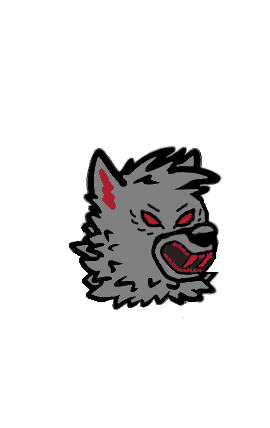
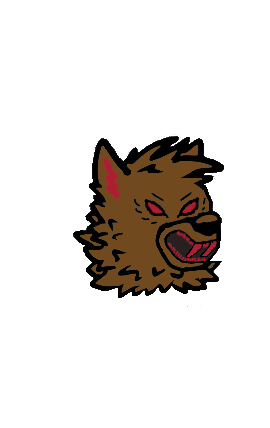
2.1.15-dev.8 part 1

Changed region(s): [[0.237, 0.3037, 0.8296, 0.729]]

diff --git a/source/Patches/Utils.cs b/source/Patches/Utils.cs
@@ -35,7 +35,6 @@ namespace BetterTownOfUs
             else
             {
                 targetOutfit = Lycan.WolfOutfit;
-                PlayerMaterial.SetColors(Color.grey, player.myRend());
                 player.nameText().color = Palette.ImpostorRed;
             }
             if (CamouflageUnCamouflage.IsCamoed) return;
@@ -287,6 +286,7 @@ namespace BetterTownOfUs
 
         public static void MurderPlayer(PlayerControl killer, PlayerControl target)
         {
+            if (killer.IsLover() && target.IsLover() && !killer.Is(RoleEnum.Arsonist)) return;
             var data = target.Data;
             if (data != null && !data.IsDead)
             {
@@ -353,8 +353,9 @@ namespace BetterTownOfUs
 
                 if (killer.Is(RoleEnum.Lycan) && Role.GetRole<Lycan>(killer).Wolfed)
                 {
-                    Role.GetRole<Lycan>(killer).Eaten = target.PlayerId;
-                    //target.Data.IsDead = true;
+                    var lycan = Role.GetRole<Lycan>(killer);
+                    lycan.Eaten = target.PlayerId;
+                    lycan.Eating = true;
                 }
                 if (!killer.Is(RoleEnum.Poisoner) && !killer.Is(RoleEnum.Arsonist))
                 {

diff --git a/source/Patches/Roles/Glitch.cs b/source/Patches/Roles/Glitch.cs
@@ -113,8 +113,7 @@ namespace BetterTownOfUs.Roles
         {
             if (!Player.Data.IsDead)
             {
-                Utils.SetClosestPlayer(ref ClosestPlayer, killButton:false);
-                Utils.SetClosestPlayer(ref KillTarget, killButton:true);
+                Utils.SetClosestPlayer(ref ClosestPlayer, killButton:true);
             }
 
             Player.nameText().color = Color;
@@ -464,7 +463,10 @@ namespace BetterTownOfUs.Roles
                 __gInstance.KillTarget = null;
 
                 if (__instance.KillButton.isActiveAndEnabled)
-                    __instance.KillButton.SetTarget(__gInstance.KillTarget);
+                {
+                    __instance.KillButton.SetTarget(__gInstance.ClosestPlayer);
+                    __gInstance.KillTarget = __gInstance.ClosestPlayer;
+                }
 
                 if (__gInstance.KillTarget != null)
                     __gInstance.KillTarget.myRend().material.SetColor("_OutlineColor", __gInstance.Color);

diff --git a/source/Patches/ImpostorRoles/LycanMod/Coroutine.cs b/source/Patches/ImpostorRoles/LycanMod/Coroutine.cs
@@ -10,6 +10,14 @@ namespace BetterTownOfUs.ImpostorRoles.LycanMod
         private static readonly int BodyColor = Shader.PropertyToID("_BodyColor");
         private static readonly int BackColor = Shader.PropertyToID("_BackColor");
 
+        public static bool Eating(PlayerControl player)
+        {
+            if (!player.Is(RoleEnum.Lycan)) return false;
+            var role = Role.GetRole<Lycan>(player);
+            if (!role.Eating) return false;
+            return true;
+        }
+
         public static IEnumerator CleanCoroutine(byte bodyId, Lycan role)
         {
             var deadBodies = Object.FindObjectsOfType<DeadBody>();
@@ -30,6 +38,7 @@ namespace BetterTownOfUs.ImpostorRoles.LycanMod
                         yield return null;
                     }
                     Object.Destroy(body.gameObject);
+                    role.Eating = false;
                 }
             }
         }

diff --git a/source/Patches/Roles/Lycan.cs b/source/Patches/Roles/Lycan.cs
@@ -11,6 +11,7 @@ namespace BetterTownOfUs.Roles
         public DateTime LastWolfed;
         public float TimeRemaining;
         public byte Eaten { get; set; } = byte.MaxValue;
+        public bool Eating { get; set; } = false;
         public Lycan(PlayerControl player) : base(player)
         {
             Name = "Lycan";
@@ -42,7 +43,7 @@ namespace BetterTownOfUs.Roles
 
         public static GameData.PlayerOutfit WolfOutfit = new GameData.PlayerOutfit()
         {
-          ColorId = 0,
+          ColorId = 9,
           HatId = "wolf",
           SkinId = "",
           VisorId = "",

diff --git a/source/Patches/CanMove.cs b/source/Patches/CanMove.cs
@@ -1,4 +1,5 @@
 using HarmonyLib;
+using BetterTownOfUs.ImpostorRoles.LycanMod;
 
 namespace BetterTownOfUs.Patches
 {
@@ -21,7 +22,8 @@ namespace BetterTownOfUs.Patches
                            && !MeetingHud.Instance
                            && !PlayerCustomizationMenu.Instance 
                            && !ExileController.Instance
-                           && !IntroCutscene.Instance;
+                           && !IntroCutscene.Instance
+                           && !Coroutine.Eating(__instance);
 
                 return false;
             }

diff --git a/source/Patches/Roles/Modifiers/Lover.cs b/source/Patches/Roles/Modifiers/Lover.cs
@@ -40,6 +40,7 @@ namespace BetterTownOfUs.Roles.Modifiers
 
             foreach(var player in canHaveModifiers)
             {
+                if (player.Is(RoleEnum.Altruist)) continue;
                 if (player.Is(Faction.Impostors) || ((player.Is(RoleEnum.Glitch) || player.Is(RoleEnum.Arsonist) || player.Is(RoleEnum.Plaguebearer)
                     || player.Is(RoleEnum.Werewolf) || player.Is(RoleEnum.Juggernaut)) && CustomGameOptions.NeutralLovers))
                     impostors.Add(player);

diff --git a/source/Patches/SetTarget.cs b/source/Patches/SetTarget.cs
@@ -10,8 +10,9 @@ namespace BetterTownOfUs
     {
         private static PlayerControl Target;
 
-        public static bool Prefix(ref PlayerControl target)
+        public static bool Prefix(ref PlayerControl target, [HarmonyArgument(0)] KillButton __instance)
         {
+            if (KillButtonSprite.Kill != null && __instance.graphic.sprite != KillButtonSprite.Kill) return false;
             target = Target;
             return true;
         }

diff --git a/source/Patches/KillButtonSprite.cs b/source/Patches/KillButtonSprite.cs
@@ -31,7 +31,7 @@ namespace BetterTownOfUs
         private static Sprite Trap => BetterTownOfUs.TrapSprite;
         private static Sprite Examine => BetterTownOfUs.ExamineSprite;
         private static Sprite Button => BetterTownOfUs.ButtonSprite;
-        private static Sprite Kill;
+        public static Sprite Kill;
 
 
         public static void Postfix(HudManager __instance)

diff --git a/source/Patches/ImpostorRoles/LycanMod/HUDClose.cs b/source/Patches/ImpostorRoles/LycanMod/HUDClose.cs
@@ -15,6 +15,7 @@ namespace BetterTownOfUs.ImpostorRoles.LycanMod
             {
                 var role = Role.GetRole<Lycan>(PlayerControl.LocalPlayer);
                 role.LastWolfed = DateTime.UtcNow;
+                role.Eating = false;
             }
         }
     }
